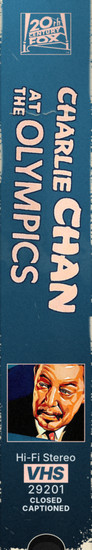
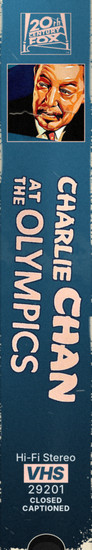
Vault 1930s finished: all 33 spines, titles lifted or cut letter by letter, mix checked against the 2026 targets
Claude-Session: https://claude.ai/code/session_01RnhGoN1mud73vgkpEEZaMG

diff --git a/spinegen/vault.py b/spinegen/vault.py
@@ -234,10 +234,10 @@ std('charlie-chan-on-broadway-1937', ('grad', [(0, (60, 70, 100)), (.6, (16, 18,
     tgap=10, photo=ph(0.75, 0.2, 0.5, 1.2), pb=(252, 236, 30), studio=['20TH CENTURY-FOX'], scol=(252, 236, 30), order='lPTF',
     ft='a', vbox=(252, 236, 30), vink=(16, 18, 30), fcol=(200, 200, 210), fin=OLD, seed=1937)
 
-# Sabotage (1936): Piccadilly at night, the red white-edged SABOTAGE cut off its sign in its own colours, the lit circus under the title (director from IMDb)
+# Sabotage (1936): Piccadilly at night, the lit circus, the red white-edged SABOTAGE cut off its sign in its own colours (director from IMDb)
 std('sabotage-1936', ('grad', [(0, (60, 50, 90)), (.6, (24, 18, 40)), (1, (6, 4, 12))]), (214, 30, 36),
     LC([(0.095, 0.138, 0.9, 0.276)], 100, margin=0, cuts=[comp_cut(lambda a: ((a[..., 0] > .55) & (a[..., 1] < .3) & (a[..., 2] < .35)) | ((_lum(a) > .85) & (_sat(a) < .15)), keep=lambda x, y: .03 < x < .99)]),
-    photo=ph(0.52, 0.665, 0.7, 1.3), pb=(238, 230, 214), order='TPCF', credit=['DIRECTED BY', 'ALFRED HITCHCOCK'], ccol=(238, 230, 214),
+    photo=ph(0.52, 0.665, 0.7, 1.3), pb=(238, 230, 214), order='PTCF', credit=['DIRECTED BY', 'ALFRED HITCHCOCK'], ccol=(238, 230, 214),
     ft='e', vbox=(214, 30, 36), fcol=(210, 200, 214), fin=OLD, seed=1936)
 
 # The Case of the Black Cat (1936): the poster's sepia, its speckled ochre THE CASE OF THE and the big BLACK CAT lifted (keyed on the black round them, specks filled) and re-inked cream, the two faces under the title
@@ -262,7 +262,7 @@ std('charlie-chan-at-monte-carlo-1937', ('grad', [(0, (246, 246, 242)), (.6, (22
         pick_cut(CCMC, (0.15, 0.83, 0.65, 0.98), [(0.182, 0.919), (0.254, 0.906), (0.322, 0.89), (0.386, 0.879), (0.439, 0.862), (0.482, 0.862), (0.404, 0.945), (0.461, 0.942), (0.509, 0.927), (0.549, 0.926), (0.605, 0.91)])]),
     tgap=6, photo=ph(0.24, 0.29, 0.44, 1.15), pb=(30, 60, 90), order='LPTF', ft='a', vbox=(30, 60, 90), fcol=(30, 60, 90), fin=OLD, seed=1937)
 
-# Charlie Chan at the Olympics (1937): the poster's blue panel, its pink lettering in navy keyline cut off it in its own colours and turned level (the panel is tipped 7-8 degrees), Chan's face under the title
+# Charlie Chan at the Olympics (1937): the poster's blue panel, its pink lettering in navy keyline cut off it in its own colours and turned level (the panel is tipped 7-8 degrees), Chan's face
 CCOL = lambda a: (a[..., 0] > .82) & (a[..., 1] > .66) & (a[..., 2] > .55) & (a[..., 0] > a[..., 2] + .05)
 std('charlie-chan-at-the-olympics-1937', ('grad', [(0, (40, 110, 150)), (.6, (20, 66, 96)), (1, (6, 22, 36))]), (246, 204, 196),
     [LC([(0.22, 0.52, 0.73, 0.64), (0.22, 0.59, 0.72, 0.72)], 66, gapf=.2, outline=((20, 30, 60), 2.2), cuts=[
@@ -271,7 +271,7 @@ std('charlie-chan-at-the-olympics-1937', ('grad', [(0, (40, 110, 150)), (.6, (20
      LC([(0.13, 0.66, 0.25, 0.745), (0.24, 0.68, 0.8, 0.81)], 66, gapf=.15, outline=((20, 30, 60), 2.2), cuts=[
         pick_cut(CCOL, (0.13, 0.66, 0.25, 0.745), [(0.174, 0.685), (0.212, 0.685), (0.153, 0.713), (0.185, 0.72), (0.218, 0.724)], rot=7, r=.015),
         pick_cut(CCOL, (0.24, 0.68, 0.8, 0.81), [(0.296, 0.717), (0.356, 0.728), (0.42, 0.726), (0.504, 0.741), (0.588, 0.746), (0.637, 0.757), (0.686, 0.763), (0.761, 0.773)], rot=8, r=.02)])],
-    tgap=10, photo=ph(0.7, 0.3, 0.52, 1.0), pb=(246, 204, 196), lg=(246, 204, 196), lw=.55, order='LTPF',
+    tgap=10, photo=ph(0.7, 0.3, 0.52, 1.0), pb=(246, 204, 196), lg=(246, 204, 196), lw=.55, order='LPTF',
     ft='c', vbox=(246, 204, 196), vink=(20, 66, 96), fcol=(214, 226, 236), fin=OLD, seed=1937)
 
 # Grand Illusion (1937): the poster's red sky into black, its cream GRAND ILLUSION rebuilt letter by letter off the arc it curves round, Gabin's face (top-billed cast from IMDb)
@@ -286,3 +286,76 @@ std('pepe-le-moko-1937', ('grad', [(0, (30, 28, 20)), (.6, (10, 10, 6)), (1, (2,
     L([(0.245, 0.665, 0.765, 0.784), (0.08, 0.788, 0.925, 0.888)], 84, (250, 228, 30), mode='key', key=(245, 225, 40), t=(70, 150), gapf=.3, speck=0),
     photo=ph(0.6, 0.3, 0.74, 1.1), pb=(250, 228, 30), studio=['PARIS FILM'], scol=(250, 228, 30), order='lPTF',
     ft='e', vbox=(250, 228, 30), vink=(10, 10, 6), fcol=(220, 214, 180), fin=OLD, seed=1937)
+
+# Bringing Up Baby (1938): the poster's white band, its maroon serif Bringing Up Baby lifted, Hepburn on the telephone
+std('bringing-up-baby-1938', ('grad', [(0, (248, 244, 236)), (.6, (234, 226, 214)), (1, (170, 150, 130))]), (92, 26, 30),
+    L((0.025, 0.415, 0.97, 0.515), 78, (92, 26, 30), mode='dark'),
+    photo=ph(0.62, 0.8, 0.6, 1.08), pb=(92, 26, 30), lg=(92, 26, 30), lw=.5, order='LPTF',
+    ft='b', fcol=(92, 26, 30), fin=OLD, seed=1938)
+
+# La Bête Humaine (1938): black, the poster's red LA, BÊTE (circumflex and all) and HUMAINE keyed off it, Gabin and Simone Simon (director from IMDb, credited the French way)
+std('la-bete-humaine-1938', ('grad', [(0, (40, 30, 30)), (.6, (12, 8, 8)), (1, (2, 2, 2))]), (226, 24, 36),
+    L([(0.255, 0.552, 0.405, 0.622), (0.155, 0.624, 0.482, 0.766), (0.1, 0.771, 0.897, 0.935)], 92, (228, 26, 38), mode='key', key=(220, 30, 40), t=(70, 150), gapf=.18, speck=0),
+    photo=ph(0.56, 0.2, 0.86, 0.72), pb=(228, 26, 38), order='PTCF', credit=['RÉALISATION', 'JEAN RENOIR'], ccol=(230, 220, 214),
+    ft='a', vbox=(228, 26, 38), fcol=(200, 196, 196), fin=OLD, seed=1938)
+
+# Port of Shadows (1938): black and fog, the poster's metallic PORT OF SHADOWS cut off it with its own white-to-grey shading, the lovers' silhouettes (no logo file: Ciné-Alliance, from IMDb's company credits)
+std('port-of-shadows-1938', ('grad', [(0, (200, 200, 200)), (.25, (90, 90, 90)), (.6, (20, 20, 20)), (1, (2, 2, 2))]), WHT,
+    LC([(0.05, 0.77, 0.95, 0.872), (0.05, 0.865, 0.95, 0.967)], 76, gapf=.2, margin=0, cuts=[key_cut(lambda a: _lum(a) > .5)] * 2),
+    photo=ph(0.62, 0.36, 0.66, 1.55), pb=(230, 230, 230), studio=['CINÉ-ALLIANCE'], scol=(30, 30, 30), order='lPTF',
+    ft='c', fcol=(200, 200, 200), fin=OLD, seed=1938)
+
+# Snow White and the Seven Dwarfs (1938): Disney, so the white clamshell; the poster's sky blue, its cream Snow White and and the Seven Dwarfs cut off the blue oval, Snow White's face in the red diamond
+disney('snow-white-and-the-seven-dwarfs-1938', ('grad', [(0, (60, 170, 214)), (.5, (30, 140, 190)), (1, (14, 90, 140))]), fin=dict(CLAM, vivid=.2),
+       title=[LC([(0.17, 0.728, 0.87, 0.806)], 96, cuts=[key_cut(lambda a: (_lum(a) > .85) & (a[..., 2] < a[..., 0]))]),
+              LC([(0.26, 0.8, 0.73, 0.84)], 44, cuts=[key_cut(lambda a: (_lum(a) > .85) & (a[..., 2] < a[..., 0]))])],
+       face=ph(.52, .355, .16, 1.4), lcol=WHT)
+
+# The Adventures of Robin Hood (1938): the poster's shield red, its script The Adventures of and the white ROBIN HOOD edged in blue lifted, Flynn's grin under the feathered cap
+std('the-adventures-of-robin-hood-1938', ('grad', [(0, (226, 40, 44)), (.6, (160, 20, 26)), (1, (60, 6, 10))]), WHT,
+    [L((0.165, 0.538, 0.705, 0.575), 40, WHT, mode='key', key=(250, 250, 250), t=(70, 160)),
+     L([(0.14, 0.588, 0.705, 0.692), (0.12, 0.705, 0.668, 0.815)], 90, WHT, mode='key', key=(250, 250, 250), t=(70, 160), gapf=.25, speck=.02, outline=((30, 50, 120), 2.6))],
+    tgap=6, photo=ph(0.6, 0.14, 0.6, 1.2), pb=(250, 214, 60), lw=.55, order='LPTF',
+    ft='d', vbox=(250, 214, 60), vink=(160, 20, 26), fcol=(240, 220, 210), fin=OLD, seed=1938)
+
+# The Lady Vanishes (1938): the poster's red-orange, its black script the and the tall yellow Lady Vanishes cut off it letter by letter in their own colours (the letters fade into the red at their feet, as on the poster), edged in black for the poster's shadow, the night train (no logo file: Gainsborough Pictures, from IMDb's company credits)
+LVY = lambda a: (a[..., 0] > .9) & (a[..., 1] > .3) & (a[..., 2] < .3)
+std('the-lady-vanishes-1938', ('grad', [(0, (222, 84, 40)), (.6, (176, 52, 30)), (1, (60, 16, 8))]), (250, 196, 60),
+    LC([(0.128, 0.082, 0.3, 0.14), (0.05, 0.1, 0.47, 0.45), (0.05, 0.36, 0.92, 0.6)], 150, gapf=.12, valign='base', outline=((18, 12, 10), 1.8), cuts=[
+        comp_cut(lambda a: _lum(a) < .16, keep=lambda x, y: x > .06 and .1 < y < .9),
+        pick_cut(LVY, (0.05, 0.1, 0.47, 0.45), [(0.078, 0.258), (0.19, 0.292), (0.302, 0.261), (0.418, 0.305)], r=.02),
+        pick_cut(LVY, (0.05, 0.36, 0.92, 0.6), [(0.074, 0.454), (0.13, 0.452), (0.234, 0.487), (0.341, 0.491), (0.438, 0.496), (0.517, 0.488), (0.623, 0.463), (0.75, 0.494), (0.856, 0.482)], r=.02)]),
+    photo=ph(0.5, 0.75, 1.0, 0.45), pb=(250, 200, 60), studio=['GAINSBOROUGH', 'PICTURES'], scol=(250, 210, 140), order='lTPSF',
+    stick=BAR('16 4402', top='THRILLER', fill=(226, 214, 186)), ft='b', fcol=(240, 210, 180), fin=RENTAL, seed=1938)
+
+# Charlie Chan at Treasure Island (1939): black, the poster's sea-green lettering cut off it word by word and turned level (it climbs 10 degrees), the medium and the faces from the top of the poster (director from IMDb)
+CCTI = lambda a: (a[..., 1] > .55) & (a[..., 1] > a[..., 0] + .2) & (a[..., 2] > .35)
+std('charlie-chan-at-treasure-island-1939', ('grad', [(0, (30, 40, 40)), (.6, (10, 14, 14)), (1, (2, 2, 2))]), (40, 220, 170),
+    [LC([(0.0, 0.5, 0.47, 0.64), (0.02, 0.6, 0.49, 0.75)], 64, gapf=.2, cuts=[
+        pick_cut(CCTI, (0.0, 0.5, 0.47, 0.64), [(0.08, 0.587), (0.188, 0.579), (0.254, 0.566), (0.318, 0.563), (0.368, 0.552), (0.417, 0.546)], rot=-10, r=.02),
+        pick_cut(CCTI, (0.02, 0.6, 0.49, 0.75), [(0.083, 0.691), (0.192, 0.678), (0.306, 0.67), (0.415, 0.651)], rot=-10, r=.02)]),
+     LC([(0.0, 0.76, 0.15, 0.87), (0.12, 0.64, 1.0, 0.85)], 64, gapf=.15, cuts=[
+        pick_cut(CCTI, (0.0, 0.76, 0.15, 0.87), [(0.052, 0.827), (0.105, 0.812)], rot=-10, r=.02),
+        pick_cut(CCTI, (0.12, 0.64, 1.0, 0.85), [(0.173, 0.786), (0.239, 0.785), (0.304, 0.777), (0.367, 0.773), (0.424, 0.76), (0.489, 0.754), (0.561, 0.744), (0.619, 0.737), (0.695, 0.727), (0.742, 0.721), (0.79, 0.716), (0.85, 0.71), (0.905, 0.7), (0.965, 0.692)], rot=-10, r=.015)])],
+    tgap=10, photo=ph(0.48, 0.24, 1.0, 0.75), pb=(40, 220, 170), order='PTCF', credit=['A NORMAN FOSTER', 'FILM'], ccol=(40, 220, 170),
+    ft='e', fcol=(190, 210, 204), fin=OLD, seed=1939)
+
+# Mr. Smith Goes to Washington (1939): the poster's cream, its navy italic FRANK CAPRA'S and the red condensed MR. SMITH GOES TO WASHINGTON keyed off it, Stewart and Jean Arthur from the top of the poster
+std('mr-smith-goes-to-washington-1939', ('grad', [(0, (244, 232, 206)), (.6, (230, 212, 178)), (1, (160, 130, 96))]), (196, 28, 34),
+    [L((0.19, 0.355, 0.8, 0.418), 36, (30, 30, 90), mode='key', key=(28, 24, 80), t=(70, 150)),
+     L([(0.185, 0.458, 0.81, 0.577), (0.092, 0.591, 0.888, 0.71)], 60, (200, 30, 36), mode='key', key=(200, 40, 40), t=(70, 150), gapf=.25, speck=.03),
+     L((0.033, 0.725, 0.949, 0.844), 60, (200, 30, 36), mode='key', key=(200, 40, 40), t=(70, 150), speck=.03)],
+    tgap=8, photo=ph(0.55, 0.16, 0.9, 0.62), pb=(200, 30, 36), lg=(60, 40, 30), lw=.6, order='LPTF',
+    ft='e', fcol=(70, 50, 40), fin=OLD, seed=1939)
+
+# The Rules of the Game (1939): the drawing's paper white, its navy THE, RULES, OF THE and GAME lifted into one line, the hunt and the house party from the drawing (the French title in type)
+std('the-rules-of-the-game-1939', ('grad', [(0, (244, 242, 232)), (.6, (226, 222, 206)), (1, (150, 146, 126))]), (24, 34, 70),
+    L([(0.18, 0.268, 0.32, 0.306), (0.022, 0.302, 0.47, 0.376), (0.145, 0.378, 0.325, 0.407), (0.026, 0.41, 0.46, 0.482)], 84, (24, 34, 70), mode='dark', gapf=.2),
+    photo=ph(0.66, 0.66, 0.68, 1.5), pb=(24, 34, 70), order='PTCSF', credit=['LA RÈGLE DU JEU'], ccol=(24, 34, 70), stick=RWD(),
+    ft='d', fcol=(24, 34, 70), fin=OLD, seed=1939)
+
+# The Wizard of Oz (1939): the poster's pale sky, its arched golden THE WIZARD and big OF OZ (Toto in the O) cut off it in their own colours, the four on the yellow brick road
+std('the-wizard-of-oz-1939', ('grad', [(0, (226, 236, 240)), (.6, (200, 216, 224)), (1, (110, 140, 150))]), (40, 60, 150),
+    LC([(0.16, 0.045, 0.71, 0.215), (0.22, 0.212, 0.8, 0.444)], 150, gapf=.1, cuts=[key_cut(lambda a: _sat(a) > .35)] * 2),
+    photo=ph(0.5, 0.68, 1.0, 0.85), pb=(240, 200, 40), lg=None, lw=.55, order='LPTF', dotst=('FAMILY', (40, 120, 60), WHT),
+    ft='a', vbox=(40, 60, 150), fcol=(40, 60, 150), fin=OLD, seed=1939)
